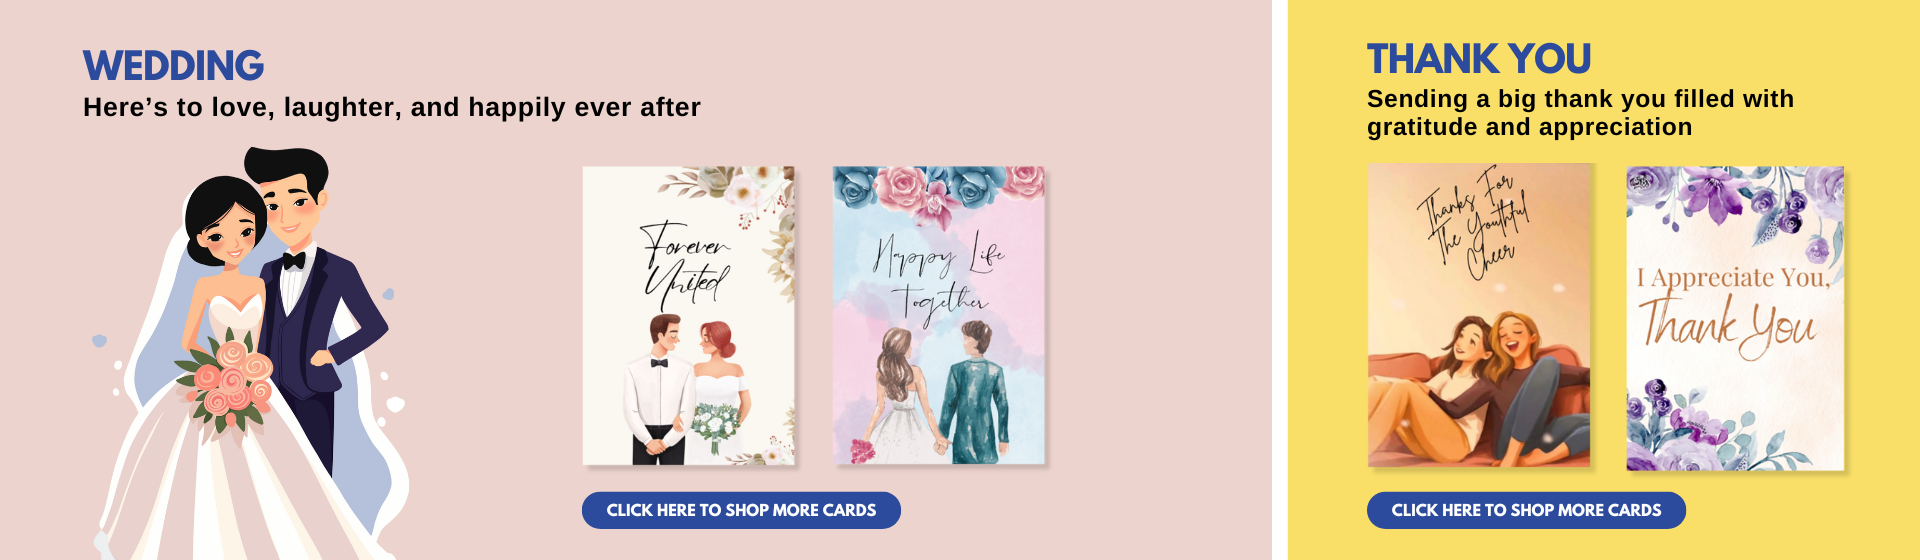
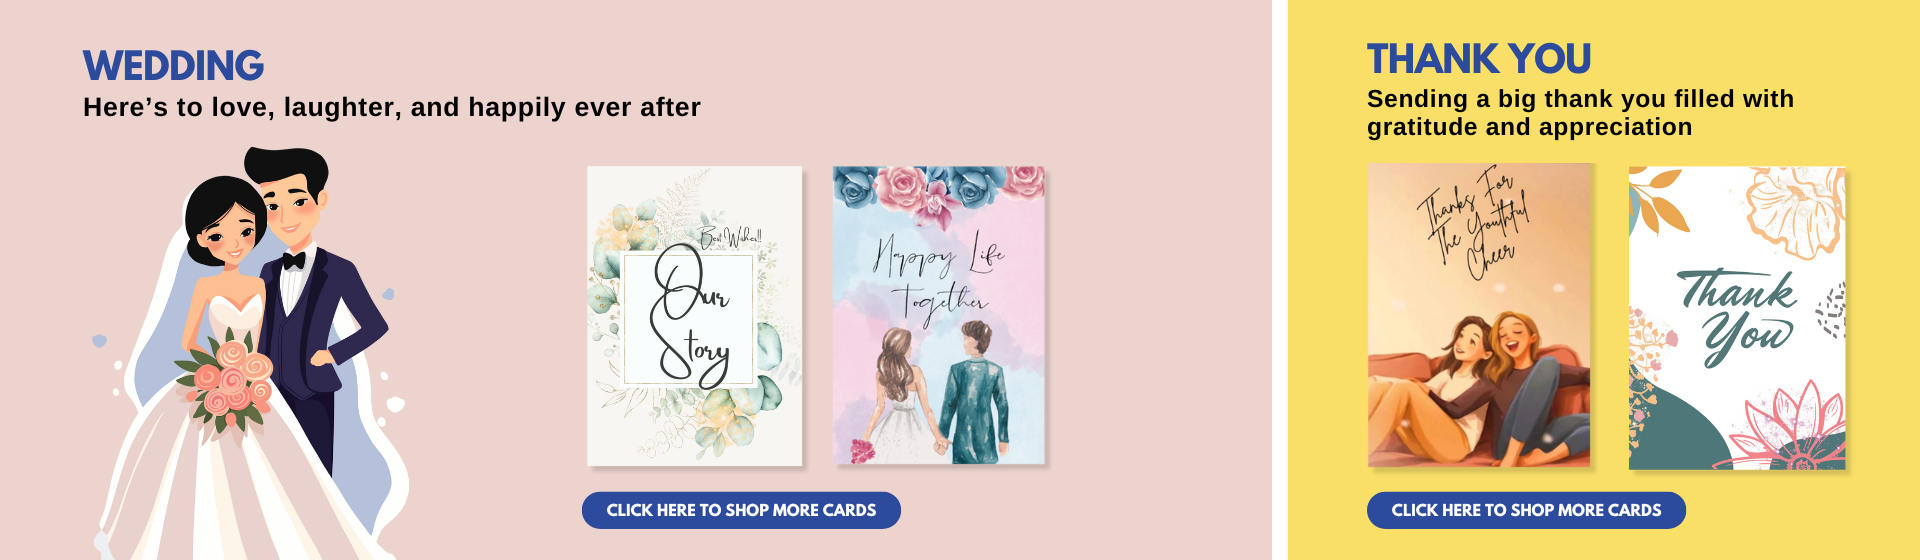
update homepage

Changed region(s): [[0.2812, 0.2732, 0.4375, 0.85], [0.8438, 0.2732, 0.9688, 0.85]]

diff --git a/src/app/new-pages/new-home/new-home.component.html b/src/app/new-pages/new-home/new-home.component.html
@@ -8,20 +8,19 @@
                 <div class="action" style="top: 16.8%; left: 60.2%; width: 11.1%; height: 53.3%;" [routerLink]="['/new/details/card/E3Wwxw7CdgVEAYj5AQ41']"></div>
                 <div class="action" style="top: 16.8%; left: 73%; width: 10.6%; height: 53.9%;" [routerLink]="['/new/details/card/cevE2zKrMx4y60sXrczX']"></div>
             </div>
-            <!-- <div class="col-md-12 relative">
-               /**Birthday**/
+            <div class="col-md-12 relative">
                 <img src="/assets/images/new/homepage/banner1.png" onContextMenu="return false;">
                 <div class="action" style="top: 75.8%; left: 26.7%; width: 16.8%; height: 6.9%;" [routerLink]="['/new/cards/Birthday']"></div>
                 <div class="action" style="top: 33.8%; left: 63.2%; width: 11.1%; height: 53.3%;" [routerLink]="['/new/details/card/z6xlmg36W3bAxnlAp4DR']"></div>
                 <div class="action" style="top: 33.8%; left: 77.7%; width: 10.6%; height: 53.9%;" [routerLink]="['/new/details/card/LG91AKqkj1dsvvql51Zv']"></div>
-            </div> -->
+            </div>
             <div class="col-md-12 relative">
                 <img src="/assets/images/new/homepage/banner2.png" onContextMenu="return false;">
-                <div class="action" style="top: 29.6%; left: 30.5%; width: 11%; height: 53.7%;" [routerLink]="['/new/details/card/KdWkQDLjxzFWjO6PfIJ8']"></div>
+                <div class="action" style="top: 29.6%; left: 30.8%; width: 11.2%; height: 53.7%;" [routerLink]="['/new/details/card/0CIxejRrg1wgsk5xivX6']"></div>
                 <div class="action" style="top: 29.6%; left: 43.4%; width: 11%; height: 53.7%;" [routerLink]="['/new/details/card/7yKPOViKfC9vo82j07Nr']"></div>
                 <div class="action" style="top: 87.8%; left: 30.5%; width: 16.5%; height: 6.9%;" [routerLink]="['/new/cards/Wedding']"></div>
                 <div class="action" style="top: 29.2%; left: 71%; width: 11.4%; height: 53.9%;" [routerLink]="['/new/details/card/EVULtQDCTSIhCHjO0Chj']"></div>
-                <div class="action" style="top: 29.5%; left: 84.2%; width: 11.3%; height: 54.5%;" [routerLink]="['/new/details/card/Jx5aDeoYFgoZhTmakqrC']"></div>
+                <div class="action" style="top: 29.5%; left: 84.2%; width: 11.3%; height: 54.5%;" [routerLink]="['/new/details/card/0zA9DFSBLIEWuE5FXe7T']"></div>
                 <div class="action" style="top: 87.8%; left: 70.9%; width: 16.5%; height: 6.9%;" [routerLink]="['/new/cards/Thank you']"></div>
             </div>
             <div class="col-md-12 relative">
@@ -30,16 +29,16 @@
                 <div class="action" style="top: 29.6%; left: 17.6%; width: 11%; height: 53.7%;" [routerLink]="['/new/details/card/Wiye8R9mzlbDnsYHU4RX']"></div>
                 <div class="action" style="top: 87.8%; left: 4.5%; width: 16.4%; height: 6.9%;" [routerLink]="['/new/cards/Friendship']"></div>
                 <div class="action" style="top: 29.8%; left: 63.9%; width: 11.1%; height: 53.3%;" [routerLink]="['/new/details/card/SdVC50XoxBG9Pcp6kv0G']"></div>
-                <div class="action" style="top: 29.6%; left: 76.6%; width: 10.9%; height: 53.3%;" [routerLink]="['/new/details/card/Jx5aDeoYFgoZhTmakqrC']"></div>
+                <div class="action" style="top: 29.6%; left: 76.6%; width: 10.9%; height: 53.3%;" [routerLink]="['/new/details/card/E33L7gYiAiEXx7YLKyAE']"></div>
                 <div class="action" style="top: 87.7%; left: 63.9%; width: 17%; height: 6.8%;" [routerLink]="['/new/cards/Thank you']"></div>
             </div>
             <div class="col-md-12 relative">
                 <img src="/assets/images/new/homepage/banner4.png" onContextMenu="return false;">
-                <div class="action" style="top: 29.8%; left: 32.6%; width: 11%; height: 53.7%;" [routerLink]="['/new/details/card/5gb13wH3eDD5uDuiD6kI']"></div>
-                <div class="action" style="top: 29.6%; left: 45.5%; width: 11%; height: 53.7%;" [routerLink]="['/new/details/card/advVx8q64nASYEm8zpWL']"></div>
+                <div class="action" style="top: 29.8%; left: 32.6%; width: 11%; height: 53.7%;" [routerLink]="['/new/details/card/cbXQZON78SOWO0fq3EJw']"></div>
+                <div class="action" style="top: 29.6%; left: 45.5%; width: 11%; height: 53.7%;" [routerLink]="['/new/details/card/FZpHatYDcZJi0OObPjYG']"></div>
                 <div class="action" style="top: 87.8%; left: 32.6%; width: 16.5%; height: 6.9%;" [routerLink]="['/new/cards/Get well']"></div>
-                <div class="action" style="top: 29.8%; left: 71.5%; width: 11%; height: 53.7%;" [routerLink]="['/new/details/card/5gb13wH3eDD5uDuiD6kI']"></div>
-                <div class="action" style="top: 29.6%; left: 84%; width: 11%; height: 53.7%;" [routerLink]="['/new/details/card/advVx8q64nASYEm8zpWL']"></div>
+                <div class="action" style="top: 29.8%; left: 71.5%; width: 11%; height: 53.7%;" [routerLink]="['/new/details/card/BUNOJIgCeRMOP0X6kSmW']"></div>
+                <div class="action" style="top: 29.6%; left: 84.5%; width: 11%; height: 53.7%;" [routerLink]="['/new/details/card/RgoYNKeW9JQvwuUhCttb']"></div>
                 <div class="action" style="top: 87.7%; left: 70.9%; width: 16.5%; height: 6.9%;" [routerLink]="['/new/cards/Sympathy']"></div>
             </div>
             <div class="col-md-12 relative" *ngIf="location === 'ph'">

diff --git a/src/app/new-pages/new-home/new-home.component.scss b/src/app/new-pages/new-home/new-home.component.scss
@@ -1,4 +1,3 @@
-
 .label-header {
     font-family: Proxima Nova;
     font-size: 2.5rem;
@@ -38,26 +37,19 @@
 
 }
 
-
 .image-panel>div {
     margin-bottom: 20px;
 }
 
 .image-panel img {
-    opacity: 0.8;
-    cursor: pointer;
-}
-
-.image-panel img:hover,
-.image-panel img:active {
     opacity: 1;
 }
 
-.relative{
+.relative {
     position: relative;
 }
 
-.relative .action{
+.relative .action {
     position: absolute;
     cursor: pointer;
 }
